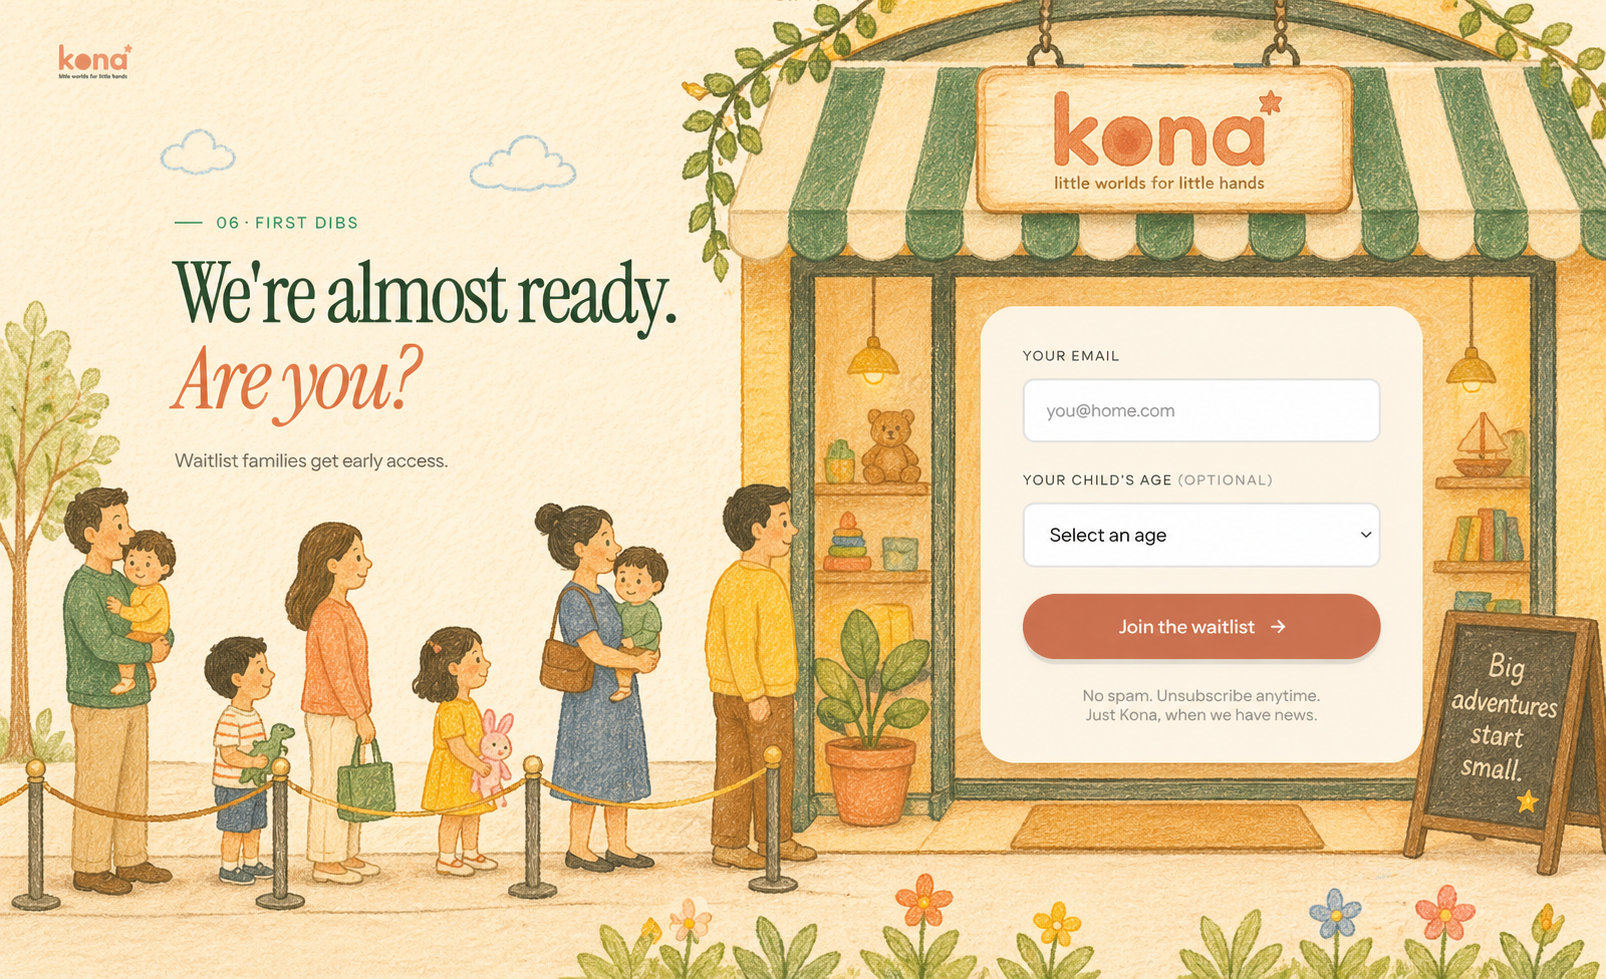
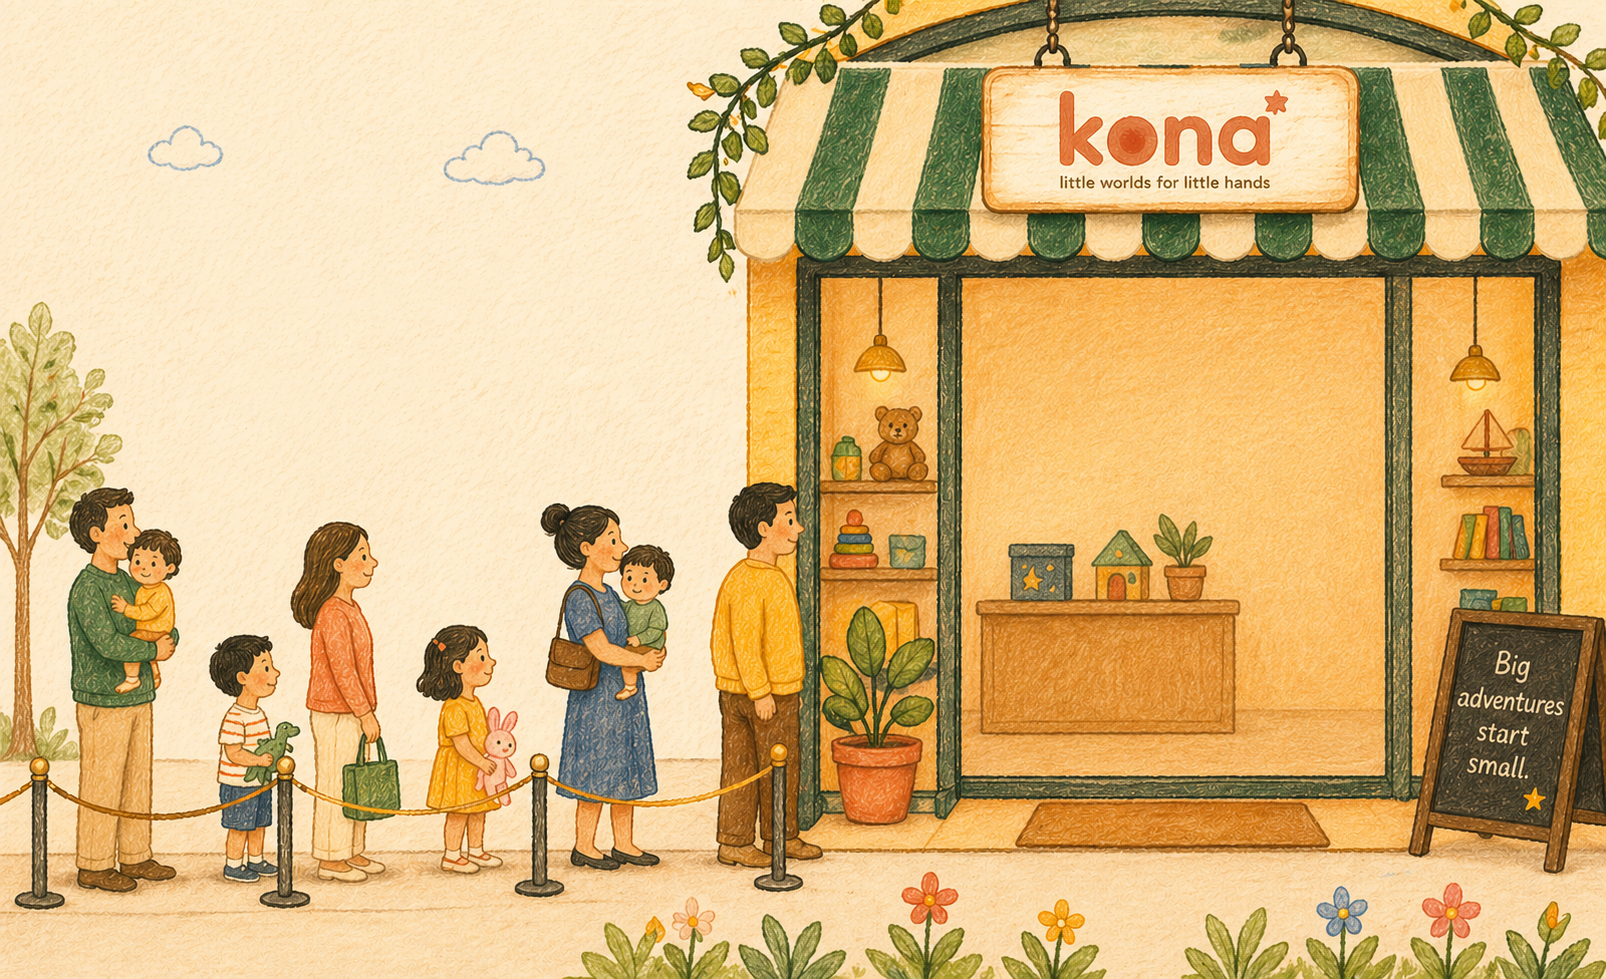
Waitlist & Story: fine-tune element positioning and spacing
- Waitlist: dial in form and text positions using absolute % coords
- Waitlist: narrow form card (270px) and shift to sit in store window
- Story: add margin-top to body copy for breathing room below heading

diff --git a/src/styles.css b/src/styles.css
@@ -856,6 +856,7 @@ body.vibe-modern { font-family: 'Instrument Sans', sans-serif; }
   line-height: 1.7;
   color: var(--ink-soft);
   max-width: 520px;
+  margin-top: 32px;
 }
 .kona-story__why-copy p { margin: 0 0 18px; }
 .kona-story__why-kicker {
@@ -1154,34 +1155,31 @@ body.vibe-modern { font-family: 'Instrument Sans', sans-serif; }
 /* ============ WAITLIST ============ */
 .kona-waitlist {
   position: relative;
-  background: #FFF5E0 url('../assets/waitlist-bg.png') right center / cover no-repeat;
+  background: #FFF5E0 url('../assets/waitlist-bg.png') center center / cover no-repeat;
   color: var(--ink);
   padding: 0;
-  min-height: 100vh;
+  min-height: 88vh;
   overflow: hidden;
-  display: flex;
-  align-items: center;
 }
 .kona-waitlist__inner {
   position: relative;
   z-index: 2;
   width: 100%;
-  max-width: 1300px;
-  margin: 0 auto;
-  display: grid;
-  grid-template-columns: 1fr 380px;
-  gap: 40px;
-  align-items: center;
-  padding: 80px 60px 100px;
+  height: 100%;
+  min-height: 88vh;
 }
+
+/* Text — positioned in the cream/sky area on the left */
 .kona-waitlist__left {
-  align-self: start;
-  padding-top: 20px;
+  position: absolute;
+  top: 20%;
+  left: 13%;
+  max-width: 380px;
 }
 .kona-waitlist__headline {
-  font-size: clamp(38px, 5vw, 68px);
+  font-size: clamp(30px, 3.5vw, 50px);
   line-height: 1.05;
-  margin-bottom: 16px;
+  margin-bottom: 14px;
   color: #1E3A2F;
 }
 .kona-waitlist__headline-accent {
@@ -1190,26 +1188,30 @@ body.vibe-modern { font-family: 'Instrument Sans', sans-serif; }
   display: block;
 }
 .kona-waitlist__sub {
-  font-size: 17px;
+  font-size: 16px;
   line-height: 1.6;
   color: #1E3A2F;
   opacity: 0.8;
-  max-width: 360px;
+  max-width: 300px;
 }
 
+/* Form — anchored over the store window */
 .kona-waitlist__right {
-  align-self: center;
+  position: absolute;
+  top: 26%;
+  right: 17%;
+  width: 270px;
 }
 
 .kona-waitlist__form {
   background: rgba(255,253,247,0.97);
   color: var(--ink);
-  padding: 32px 28px;
+  padding: 28px 20px 32px;
   border-radius: var(--radius-xl);
   box-shadow: 0 20px 60px rgba(30,30,30,0.14), 0 4px 16px rgba(30,30,30,0.08);
   display: flex;
   flex-direction: column;
-  gap: 18px;
+  gap: 20px;
 }
 .kona-field { display: flex; flex-direction: column; gap: 8px; }
 .kona-field__label {
@@ -1282,9 +1284,10 @@ body.vibe-modern { font-family: 'Instrument Sans', sans-serif; }
 @media (max-width: 900px) {
   .kona-waitlist__inner {
     grid-template-columns: 1fr;
-    gap: 40px;
-    padding: 80px 24px;
+    gap: 30px;
+    padding: 60px 24px 80px;
   }
+  .kona-waitlist__right { padding-top: 0; }
 }
 
 /* ============ FOOTER ============ */
